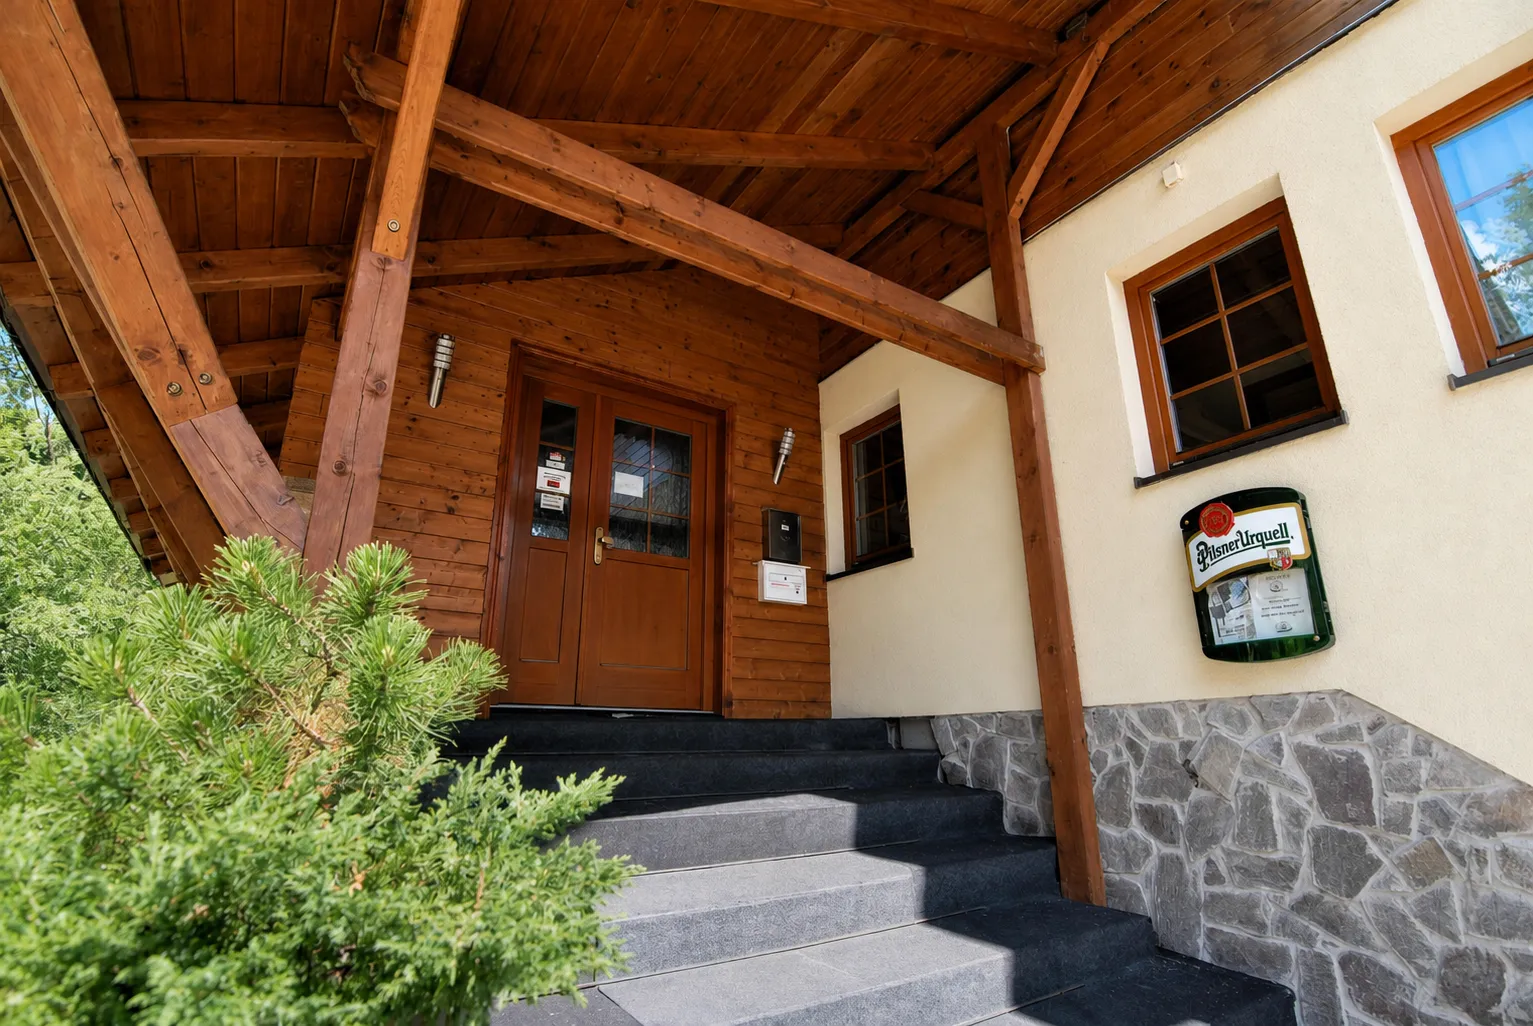
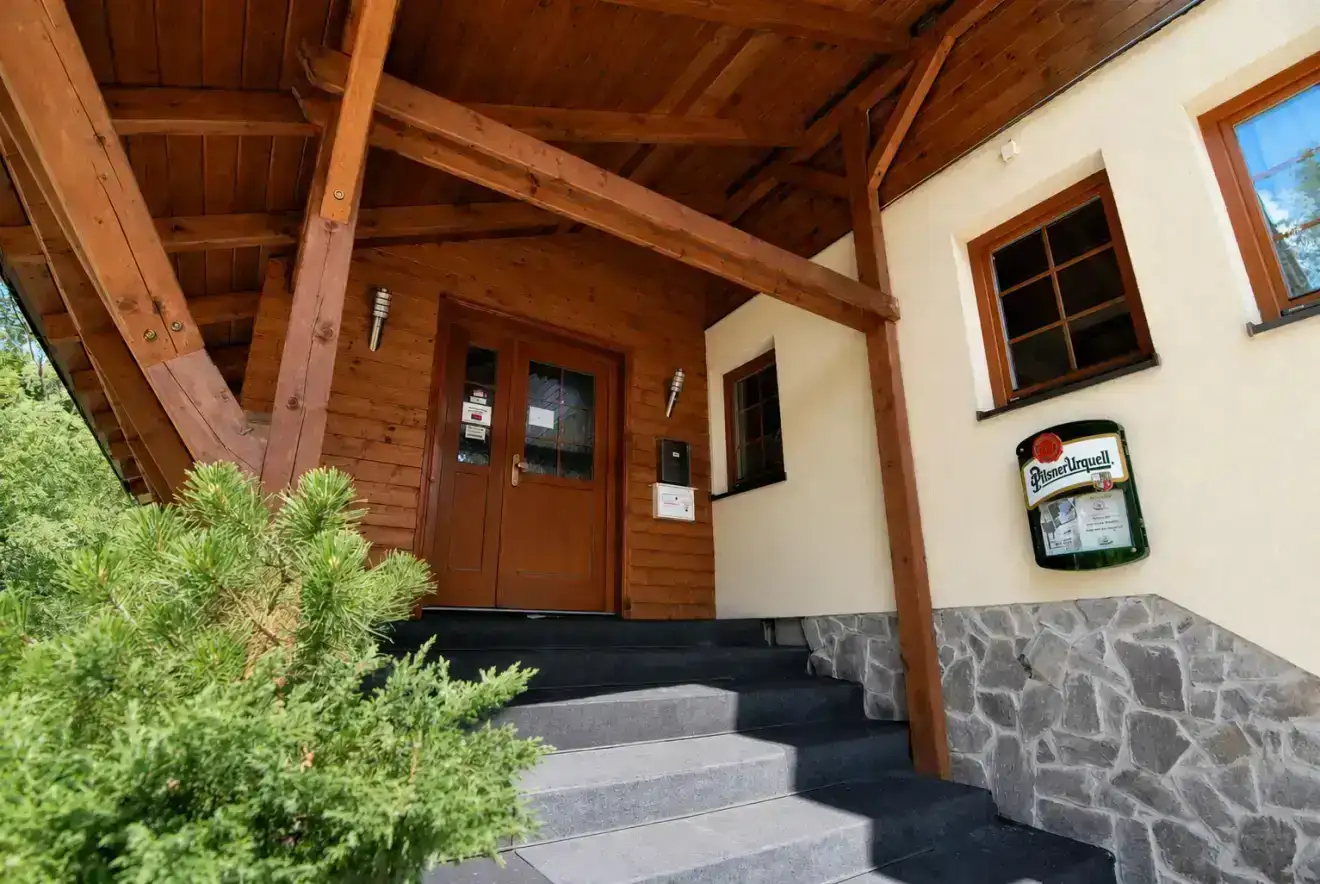
perf: optimize Aktuality & Kontakt loading speed, fix overlapping hero image & lightbox modal accessibility

diff --git a/aktuality.html b/aktuality.html
@@ -17,7 +17,7 @@
     <meta name="theme-color" content="#1c1c19" />
 
     <!-- High-Priority Preloading -->
-    <link rel="preload" href="/uvodni_hero_sekce.webp" as="image" fetchpriority="high">
+    <link rel="preload" href="/Fotky Aktivit/Aktulity hero sekce.webp" as="image" fetchpriority="high">
 
     <!-- Open Graph -->
     <meta property="og:type" content="website" />
@@ -239,10 +239,10 @@
   </head>
   <body>
     <div id="app">
-    <div class="news-page-wrapper">
+<div class="news-page-wrapper">
       <!-- 1. HERO SEKCE AKTUALIT -->
       <section class="hero-section rooms-hero-section room-detail-hero news-hero-section" id="uvod-aktuality">
-        <img class="hero-news-poster" src="/Fotky Aktivit/Aktulity hero sekce.webp" alt="Aktuality Hotel U Můstků" fetchpriority="high" loading="eager" decoding="async" style="position: absolute; top: 0; left: 0; width: 100%; height: 100%; object-fit: cover; z-index: 0;">
+        <img class="hero-news-poster" src="/Fotky Aktivit/Aktulity hero sekce.webp" alt="Aktuality Hotel u Můstku" fetchpriority="high" loading="eager" decoding="async" fetchpriority="high" loading="eager" decoding="async" fetchpriority="high" loading="eager" decoding="async" style="position: absolute; top: 0; left: 0; width: 100%; height: 100%; object-fit: cover; z-index: 0;">
         <div class="hero-overlay"></div>
         <div class="hero-inner">
           
@@ -255,7 +255,7 @@
     </div>
     
     <a href="/" class="header-logo">
-      <img src="/Logo/white logo.webp" alt="Hotel U Můstků Logo" loading="eager" fetchpriority="high">
+      <img src="/Logo/white logo.webp" alt="Hotel u Můstku Logo" loading="eager" fetchpriority="high">
     </a>
     
     <div class="nav-right">
@@ -288,11 +288,11 @@
     <!-- Spodní přepínání Léto / Zima v mobilním menu -->
     <div class="mobile-season-toggle">
       <div class="control-item">
-        <img src="/Icons/sun_icon.png" alt="Slunce" class="control-icon">
+        <img src="/Icons/sun_icon.webp" alt="Slunce" class="control-icon">
         <span>Léto</span>
       </div>
       <div class="control-item">
-        <img src="/Icons/snowflake_icon.png" alt="Vločka" class="control-icon">
+        <img src="/Icons/snowflake_icon.webp" alt="Vločka" class="control-icon">
         <span>Zima</span>
       </div>
     </div>
@@ -302,11 +302,11 @@
           <div class="room-detail-hero-center news-hero-center">
             <h1 class="hero-title room-detail-hero-title">
               <span class="desktop-title-text">Aktuality a novinky z Hotelu U Můstků</span>
-              <span class="mobile-tablet-title-text">Aktuality a novinky</span>
+              <span class="mobile-tablet-title-text">Aktuality & Novinky</span>
             </h1>
             <p class="room-detail-hero-subtitle">
-              <span class="desktop-sub-text">Sledujte nejnovější dění, chystané akce a důležitá oznámení z Hotelu U Můstků.</span>
-              <span class="mobile-sub-text">Sledujte nejnovější dění a důležitá oznámení z Hotelu U Můstků.</span>
+              <span class="desktop-sub-text">Sledujte nejnovější dění, chystané akce a důležitá oznámení z Hotelu u Můstku.</span>
+              <span class="mobile-sub-text">Sledujte nejnovější dění a důležitá oznámení z Hotelu u Můstku.</span>
             </p>
             <button class="btn btn-news-hero-btn room-detail-hero-btn" id="btn-goto-news-list">Prohlédnout novinky</button>
           </div>
@@ -340,11 +340,11 @@
                     <article class="news-card news-card-with-image news-card-reverse">
                       <div class="news-card-content">
                         <div class="news-card-date">🗓 31. července 2026</div>
-                        <h2 class="news-card-title">Letní sezóna 2026 v Hotelu U Můstků zahájena</h2>
+                        <h2 class="news-card-title">Letní sezóna 2026 v Hotelu u Můstku zahájena</h2>
                         <div class="news-card-text">S radostí vás vítáme v plném letním provozu! Připravili jsme pro vás novou letní terásku nad splavem Bílé Desné, večerní posezení u ohniště a bohaté snídaňové i večeřové bufety.<br><br>Přijďte si užít horský klid, čerstvý vzduch a osvěžení u splavu.</div>
                       </div>
                       <div class="news-card-image-wrap">
-                        <img src="/stravovani/zahradka.webp" alt="Letní sezóna 2026 v Hotelu U Můstků zahájena" class="news-card-image" loading="lazy" decoding="async">
+                        <img src="/stravovani/zahradka.webp" alt="Letní sezóna 2026 v Hotelu u Můstku zahájena" class="news-card-image" loading="lazy" decoding="async">
                       </div>
                     </article>
                   
@@ -358,7 +358,7 @@
   <section class="cta-section">
     <div class="cta-overlay"></div>
     <div class="cta-inner">
-      <h2 class="cta-title">Dopřejte si zasloužený <br>odpočinek v Jizerských horách</h2>
+      <h2 class="cta-title">Dopřejte si zasloužený<br>odpočinek v Jizerských horách</h2>
       <button class="btn btn-cta" id="cta-booking-btn">Rezervovat pobyt</button>
     </div>
   </section>
@@ -372,7 +372,7 @@
 
     <div class="footer-inner">
       <div class="footer-mobile-logo">
-        <img src="/Logo/white logo.webp" alt="Hotel U Můstků" loading="lazy" decoding="async">
+        <img src="/Logo/white logo.webp" alt="Hotel U Můstku" loading="lazy" decoding="async">
       </div>
 
       <div class="footer-columns-grid">
@@ -403,11 +403,11 @@
         <div class="footer-col footer-col-links">
           <h3 class="footer-col-heading">Rychlé odkazy</h3>
           <ul class="footer-links-list">
-            <li><a href="#pokoje">Nabídka pokojů</a></li>
-            <li><a href="#stravovani">Stravování</a></li>
-            <li><a href="#oslavy-akce">Akce</a></li>
-            <li><a href="#aktivity">Aktivity</a></li>
-            <li><a href="#kontakt">Kontakt</a></li>
+            <li><a href="/ubytovani.html">Nabídka pokojů</a></li>
+            <li><a href="/stravovani.html">Stravování</a></li>
+            <li><a href="/akce.html">Akce</a></li>
+            <li><a href="/okoli.html">Aktivity</a></li>
+            <li><a href="/kontakt.html">Kontakt</a></li>
           </ul>
         </div>
 
@@ -425,7 +425,7 @@
       <div class="footer-bottom-row">
         <div class="footer-copyright secret-admin-trigger" title="Vstup pro recepci" style="cursor: pointer;">© 2026 All Rights Reserved.</div>
         <div class="footer-logo-wrap btn-scroll-top" title="Zpět nahoru">
-          <img src="/Logo/white logo.webp" alt="Hotel U Můstků" loading="lazy" decoding="async">
+          <img src="/Logo/white logo.webp" alt="Hotel U Můstku" loading="lazy" decoding="async">
         </div>
         <div class="footer-author">Vytvořil <a href="https://ozeman.cz" target="_blank" rel="noopener">ozeman.cz</a></div>
       </div>
@@ -456,7 +456,7 @@
   </div>
 
     </div>
-  </div>
+</div>
     <script type="module" src="/src/main.js"></script>
   </body>
 </html>

diff --git a/src/main.js b/src/main.js
@@ -3552,7 +3552,7 @@ const getNewsPageHTML = async () => {
     <div class="news-page-wrapper">
       <!-- 1. HERO SEKCE AKTUALIT -->
       <section class="hero-section rooms-hero-section room-detail-hero news-hero-section" id="uvod-aktuality">
-        <img class="hero-news-poster" src="/Fotky Aktivit/Aktulity hero sekce.webp" alt="Aktuality Hotel u Můstku" fetchpriority="high" loading="eager" decoding="async" style="position: absolute; top: 0; left: 0; width: 100%; height: 100%; object-fit: cover; z-index: 0;">
+        <img class="hero-news-poster" src="/Fotky Aktivit/Aktulity hero sekce.webp" alt="Aktuality Hotel u Můstku" fetchpriority="high" loading="eager" decoding="async" fetchpriority="high" loading="eager" decoding="async" fetchpriority="high" loading="eager" decoding="async" style="position: absolute; top: 0; left: 0; width: 100%; height: 100%; object-fit: cover; z-index: 0;">
         <div class="hero-overlay"></div>
         <div class="hero-inner">
           ${getHeaderHTML()}
@@ -3635,7 +3635,7 @@ const getContactPageHTML = () => `
   <div class="contact-page-wrapper">
     <!-- 1. HERO SEKCE KONTAKTU -->
     <section class="hero-section rooms-hero-section room-detail-hero contact-hero-section" id="uvod-kontakt">
-      <img class="hero-contact-poster" src="/kontakt/vyhled-na-mustky.webp" alt="Kontakt Hotel u Můstku" fetchpriority="high" loading="eager" decoding="async" style="position: absolute; top: 0; left: 0; width: 100%; height: 100%; object-fit: cover; z-index: 0;">
+      <img class="hero-contact-poster" src="/kontakt/vyhled-na-mustky.webp" alt="Kontakt Hotel u Můstku" fetchpriority="high" loading="eager" decoding="async" fetchpriority="high" loading="eager" decoding="async" fetchpriority="high" loading="eager" decoding="async" style="position: absolute; top: 0; left: 0; width: 100%; height: 100%; object-fit: cover; z-index: 0;">
       <div class="hero-overlay"></div>
       <div class="hero-inner">
         ${getHeaderHTML()}

diff --git a/src/style.css b/src/style.css
@@ -4981,13 +4981,22 @@ h3 {
 /* Section 1: Hero Sekce Pro Pokojovou Stránku */
 /* Section 1: Hero Sekce Pro Pokojovou Stránku (90 % viewpointu) */
 #uvod-pokoje,
-.rooms-hero-section#uvod-pokoje,
-.rooms-hero-section {
+.rooms-hero-section#uvod-pokoje {
   position: relative;
   width: 100%;
   height: 90vh;
   min-height: 700px;
   background-image: url('/nabidka-pokoju.webp') !important;
+  background-size: cover;
+  background-position: center;
+  overflow: visible;
+}
+
+.rooms-hero-section {
+  position: relative;
+  width: 100%;
+  height: 90vh;
+  min-height: 700px;
   background-size: cover;
   background-position: center;
   overflow: visible;
@@ -7754,13 +7763,16 @@ h3 {
   align-items: center;
   justify-content: center;
   opacity: 0;
+  visibility: hidden;
   pointer-events: none;
-  transition: opacity 0.3s ease;
+  transition: opacity 0.3s ease, visibility 0s linear 0.3s;
 }
 
 .lightbox-modal.is-active {
   opacity: 1;
+  visibility: visible;
   pointer-events: auto;
+  transition: opacity 0.3s ease, visibility 0s linear 0s;
 }
 
 .lightbox-overlay {
@@ -11448,8 +11460,10 @@ img[loading="lazy"].img-loaded {
   background-color: #fcfbf9;
 }
 
+#uvod-aktuality,
 .news-hero-section {
   position: relative;
+  background-image: none !important;
   background-color: #1c1c19;
 }
 

diff --git a/kontakt.html b/kontakt.html
@@ -17,7 +17,7 @@
     <meta name="theme-color" content="#1c1c19" />
 
     <!-- High-Priority Preloading -->
-    <link rel="preload" href="/uvodni_hero_sekce.webp" as="image" fetchpriority="high">
+    <link rel="preload" href="/kontakt/vyhled-na-mustky.webp" as="image" fetchpriority="high">
 
     <!-- Open Graph -->
     <meta property="og:type" content="website" />
@@ -240,7 +240,7 @@
 <div class="contact-page-wrapper">
     <!-- 1. HERO SEKCE KONTAKTU -->
     <section class="hero-section rooms-hero-section room-detail-hero contact-hero-section" id="uvod-kontakt">
-      <img class="hero-contact-poster" src="/kontakt/vyhled-na-mustky.webp" alt="Kontakt Hotel u Můstku" fetchpriority="high" loading="eager" decoding="async" style="position: absolute; top: 0; left: 0; width: 100%; height: 100%; object-fit: cover; z-index: 0;">
+      <img class="hero-contact-poster" src="/kontakt/vyhled-na-mustky.webp" alt="Kontakt Hotel u Můstku" fetchpriority="high" loading="eager" decoding="async" fetchpriority="high" loading="eager" decoding="async" fetchpriority="high" loading="eager" decoding="async" style="position: absolute; top: 0; left: 0; width: 100%; height: 100%; object-fit: cover; z-index: 0;">
       <div class="hero-overlay"></div>
       <div class="hero-inner">
         
